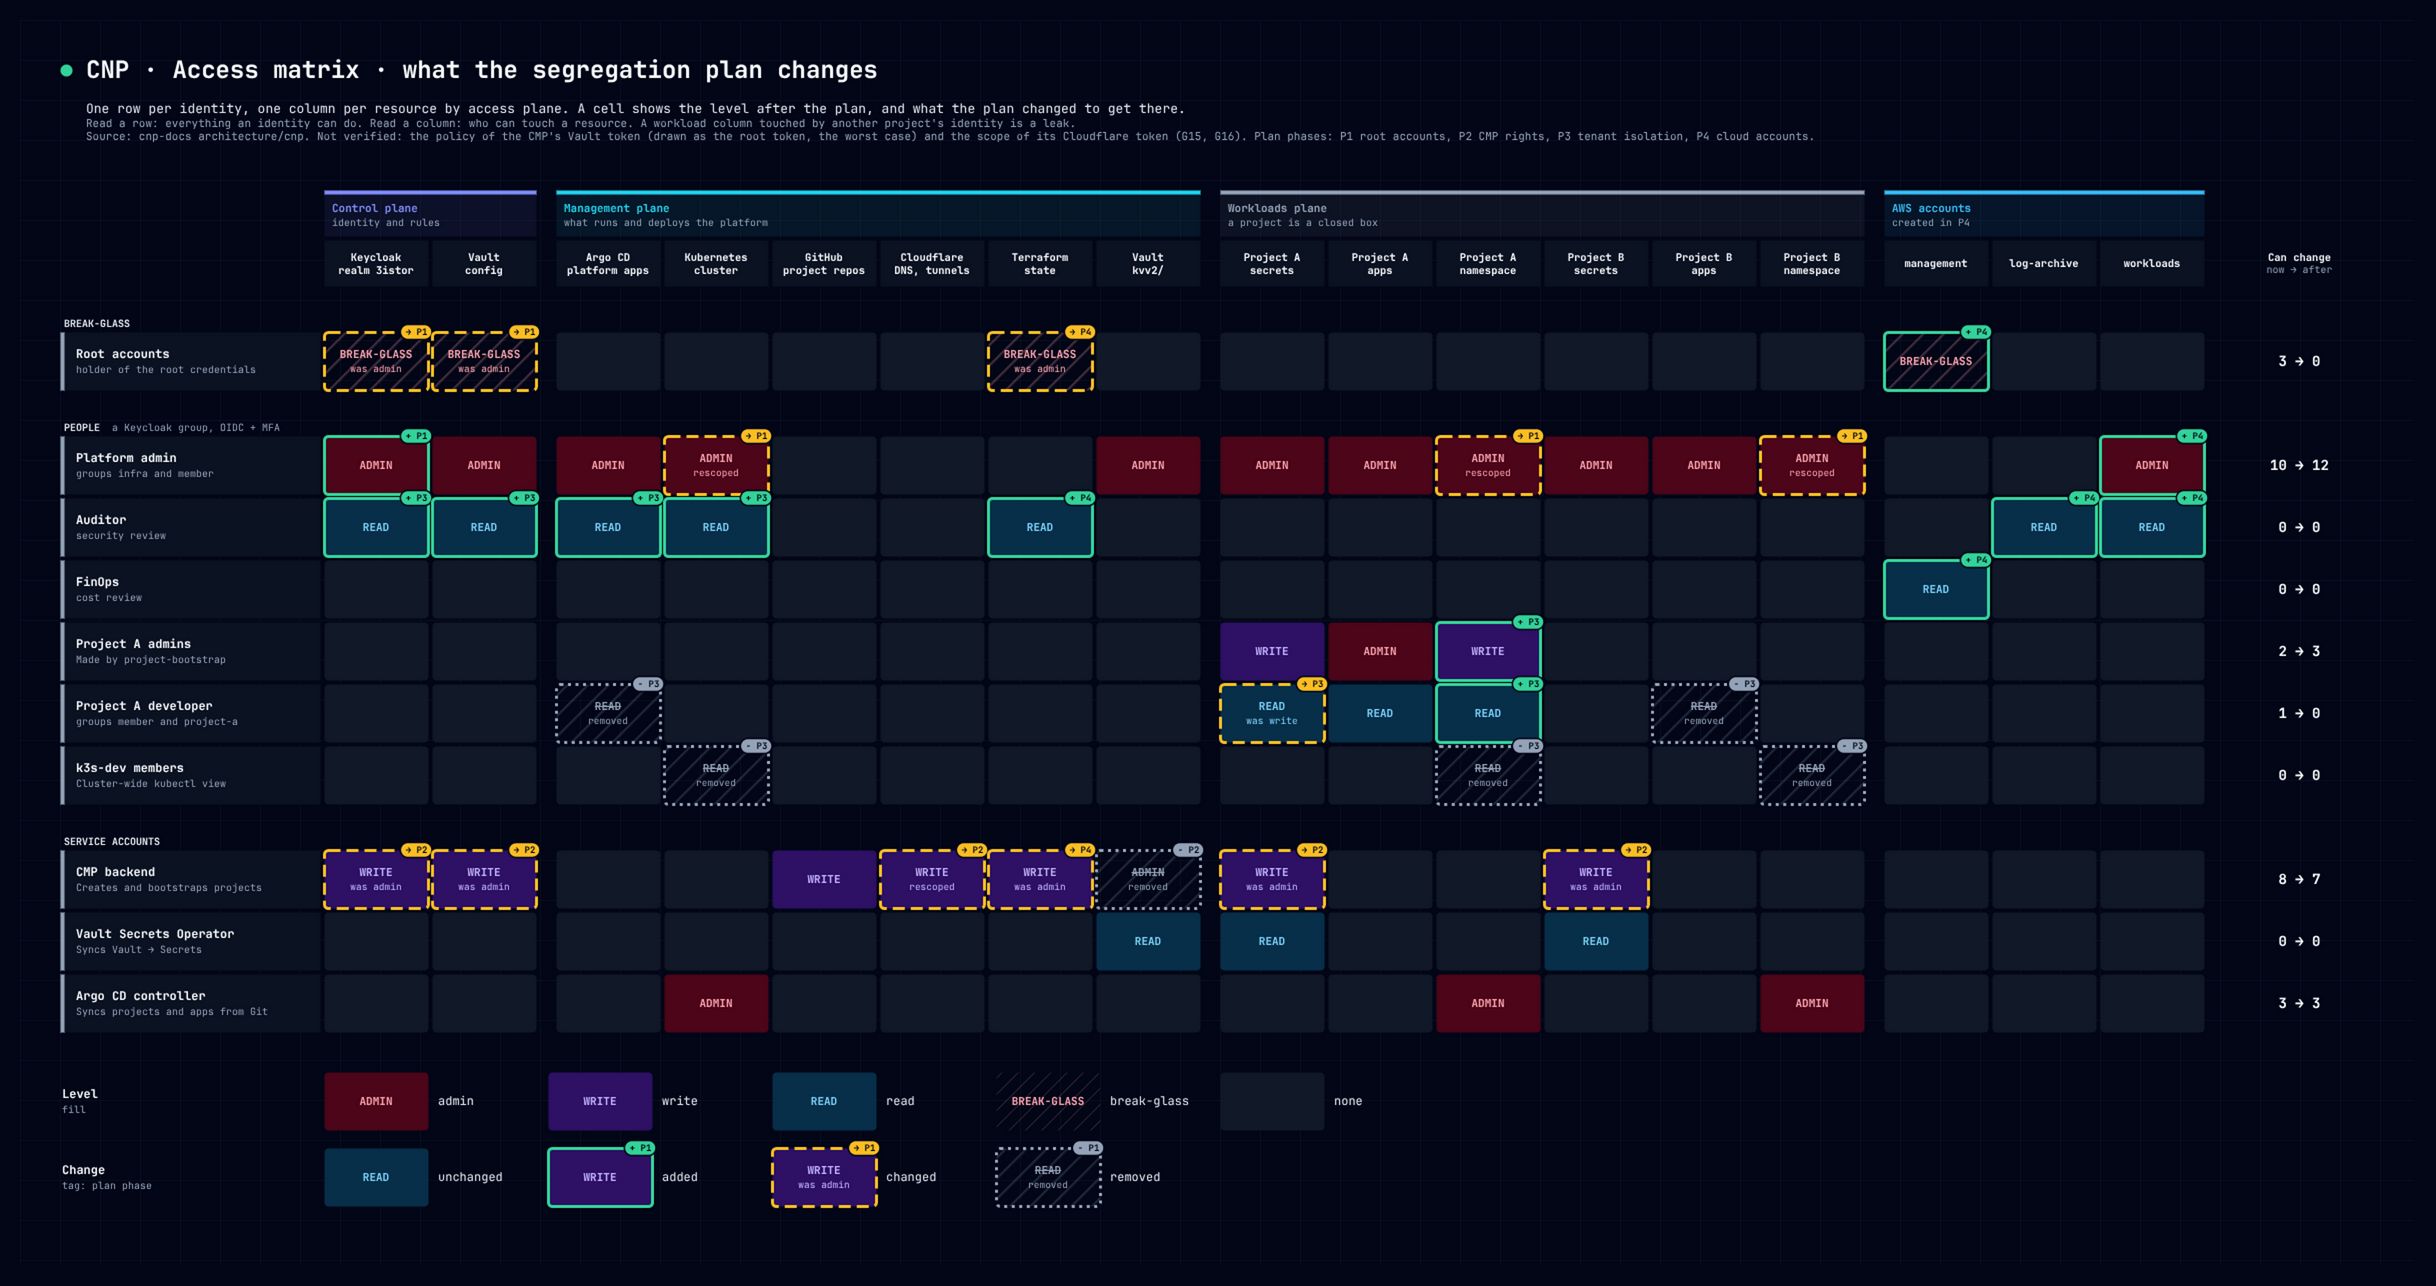
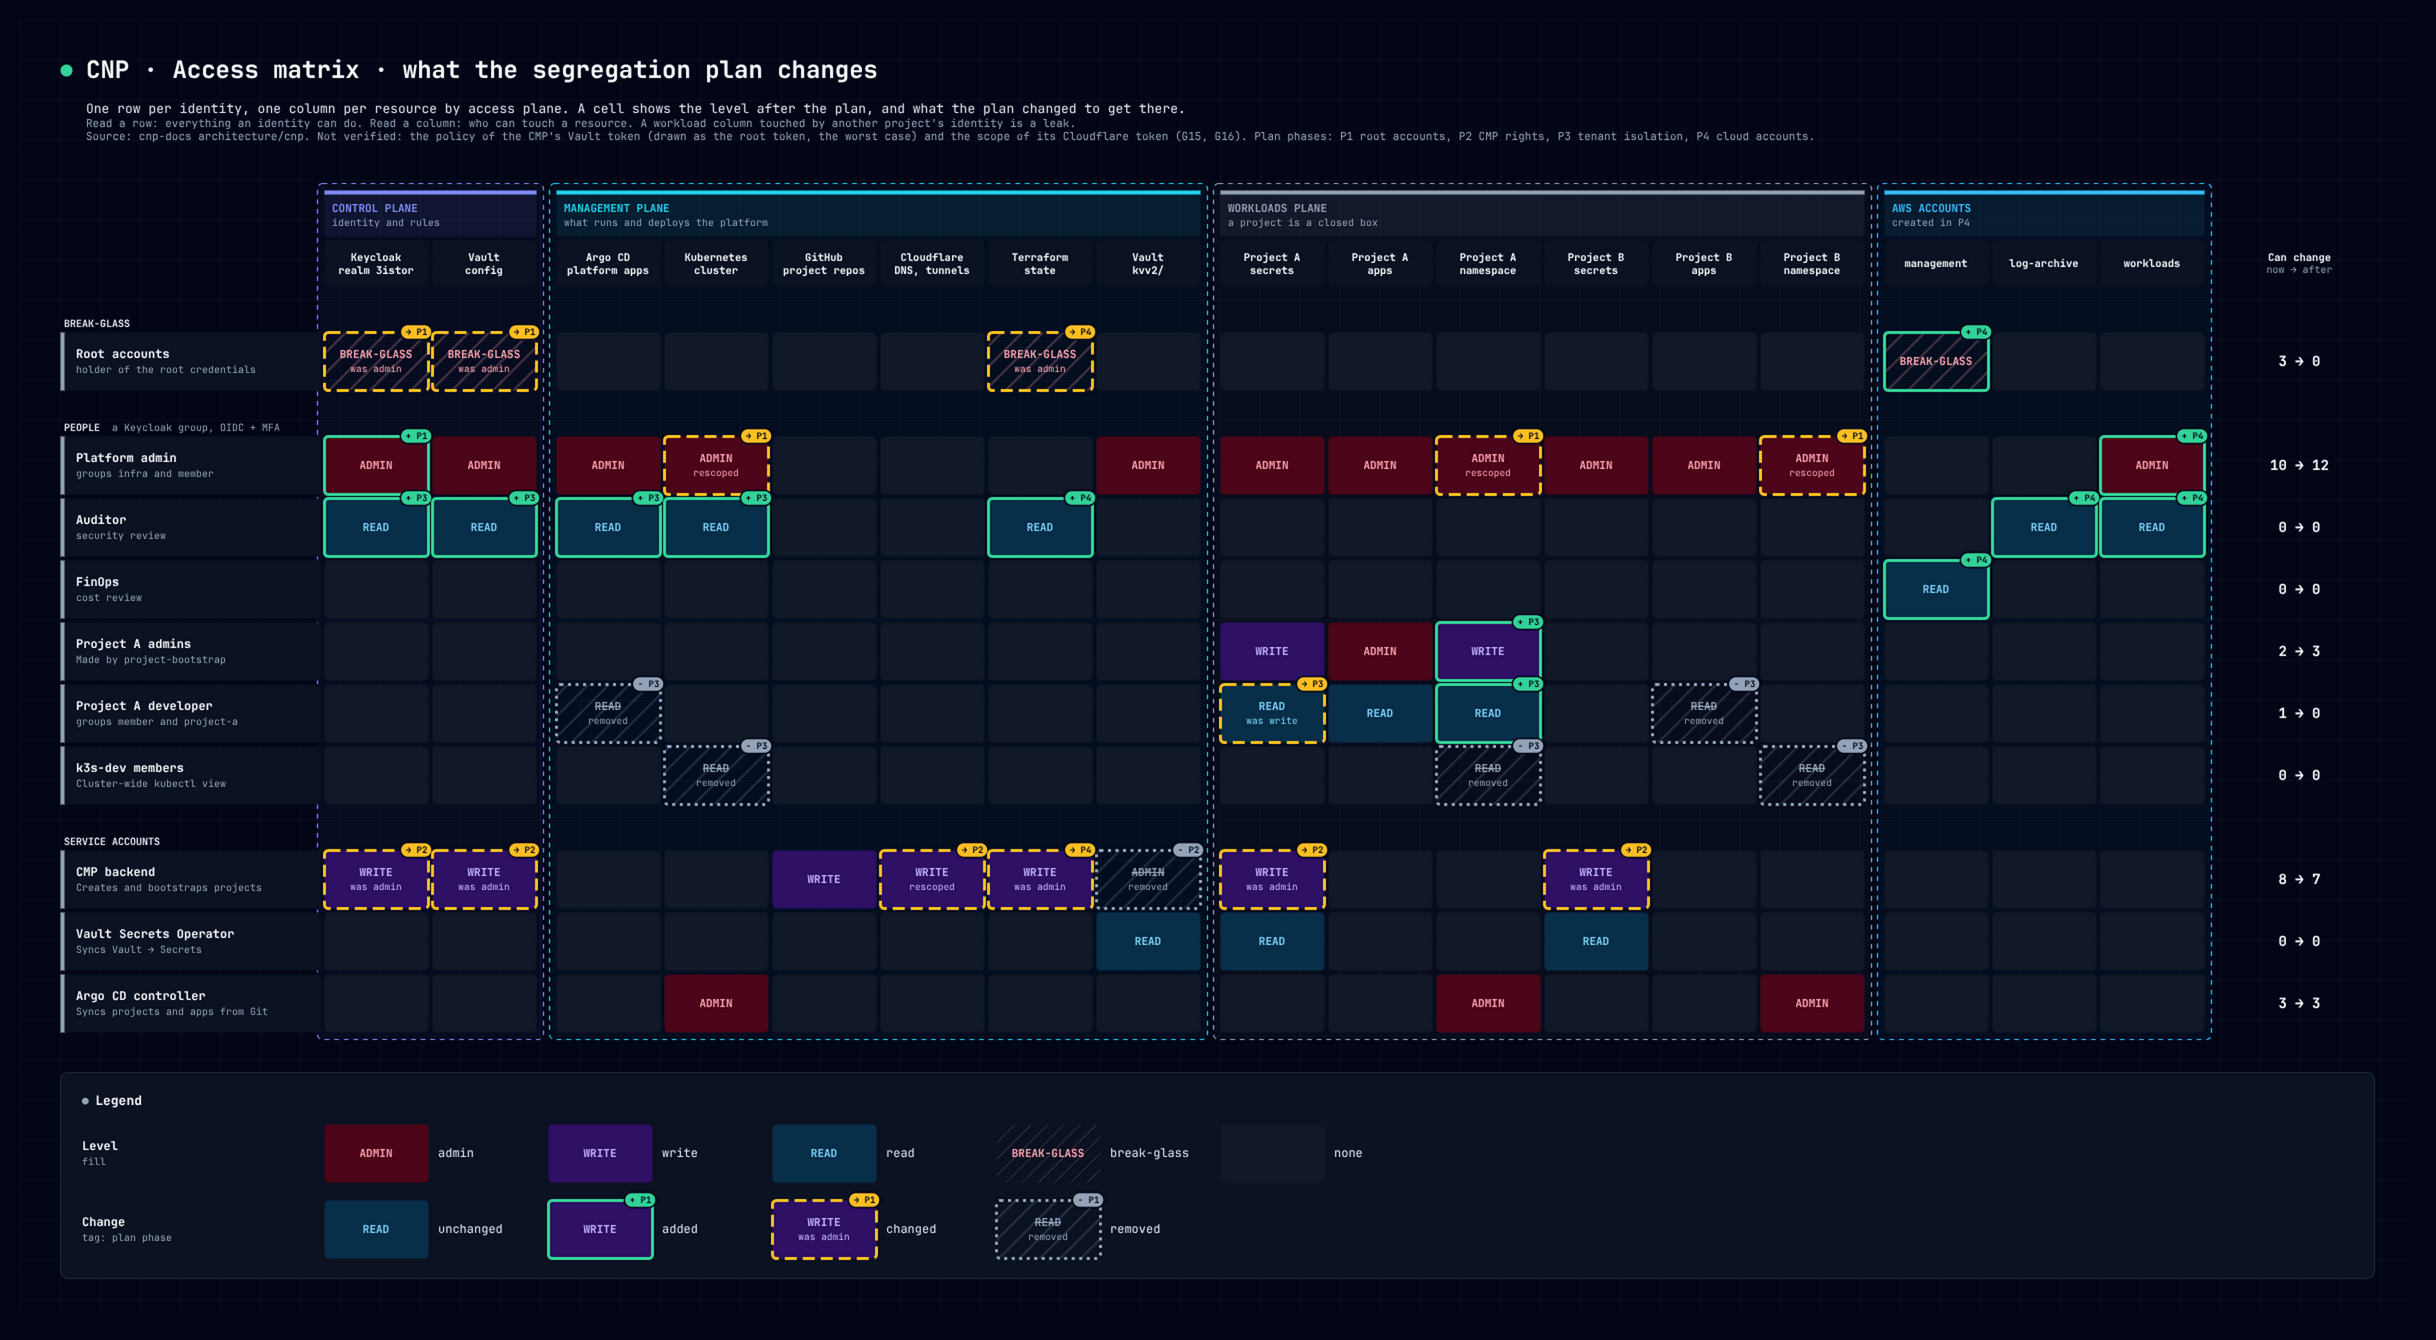
feat(render): frame matrix column groups and put the legend in a card
Claude-Session: https://claude.ai/code/session_01ER3EapmUNjupQxLPbgCuWv

diff --git a/internal/resolve/matrix.go b/internal/resolve/matrix.go
@@ -116,10 +116,12 @@ func Matrix(s *model.System, viewID string) (*diagram.Spec, error) {
 			y += house.MatrixCellH + house.MatrixGap
 		}
 	}
+	m.GridBottom = y - house.MatrixGap
 	y = matrixLegend(m, state, y+house.MatrixLegendGap)
 	for _, c := range m.Legend {
-		width = max(width, c.X+c.W+house.MatrixLegendCaptionW+landscapeMargin)
+		width = max(width, c.X+c.W+house.MatrixLegendCaptionW+house.MatrixCardPad+landscapeMargin)
 	}
+	m.LegendCard.W = width - 2*landscapeMargin
 	return &diagram.Spec{
 		ID: v.ID, Type: "matrix", Title: v.Title, Subtitle: v.Subtitle, Meta: v.Meta,
 		Width: width, Height: y + landscapeMargin, Matrix: m,
@@ -165,10 +167,13 @@ func headerLines(v *model.View, e model.Element) []string {
 	return house.Wrap(e.Title, house.MatrixHeaderFontSize, house.MatrixCellW-2*house.MatrixPad)
 }
 
-// matrixLegend lays out the two legend rows under the grid and returns the y below them.
-func matrixLegend(m *diagram.Matrix, state string, y float64) float64 {
+// matrixLegend lays out the legend card under the grid, its title row then one row of
+// sample cells per code, and returns the y below the card.
+func matrixLegend(m *diagram.Matrix, state string, top float64) float64 {
+	y := top + house.MatrixCardHeadH
+	left := landscapeMargin + house.MatrixCardPad
 	row := func(title, sub string, items []diagram.MatrixCell) {
-		m.LegendTitles = append(m.LegendTitles, diagram.MatrixHeader{Lines: []string{title}, Sub: []string{sub}, X: landscapeMargin, Y: y, W: house.MatrixRowHeaderW, H: house.MatrixCellH})
+		m.LegendTitles = append(m.LegendTitles, diagram.MatrixHeader{Lines: []string{title}, Sub: []string{sub}, X: left, Y: y, W: house.MatrixRowHeaderW - house.MatrixCardPad, H: house.MatrixCellH})
 		x := landscapeMargin + house.MatrixRowHeaderW + house.MatrixGap
 		for _, it := range items {
 			it.X, it.Y, it.W, it.H = x, y, house.MatrixCellW, house.MatrixCellH
@@ -189,7 +194,9 @@ func matrixLegend(m *diagram.Matrix, state string, y float64) float64 {
 			{Before: "read", Change: "removed", Phase: "P1", Note: "removed", Caption: "removed"},
 		})
 	}
-	return y
+	bottom := y - house.MatrixLegendGap/2 + house.MatrixCardPad
+	m.LegendCard = diagram.Rect{X: landscapeMargin, Y: top, H: bottom - top}
+	return bottom
 }
 
 func shareAny(a, b map[string]bool) bool {

diff --git a/cmd/noodle/matrix.go b/cmd/noodle/matrix.go
@@ -12,12 +12,23 @@ import (
 // matrix draws an access matrix (ADR-0019): the fill of a cell is the level, its frame
 // and tag are the change, so the two codes never share a colour.
 func (r *renderer) matrix(m *diagram.Matrix) {
+	// Frames first, behind everything: a column group reads as one block down to the
+	// last row, like a zone on a topology.
+	for i, g := range m.ColumnGroups {
+		f := house.MatrixFrameOut
+		r.vertex(fmt.Sprintf("mx-frame%d", i), "1", "", style("rounded=1", "absoluteArcSize=1", "arcSize=10", "fillColor="+r.zoneColor(g.Color),
+			"fillOpacity=4", "strokeColor="+r.zoneColor(g.Color), "strokeWidth=1.2", "dashed=1", "dashPattern=4 4", "movable=0"),
+			g.X-f, g.Y-f, g.W+2*f, m.GridBottom-g.Y+2*f)
+	}
+	r.card(diagram.Card{ID: "mx-legend-card", Title: "Legend", Color: "slate",
+		X: m.LegendCard.X, Y: m.LegendCard.Y, W: m.LegendCard.W, H: m.LegendCard.H})
 	for i, g := range m.ColumnGroups {
 		color := r.zoneColor(g.Color)
 		id := fmt.Sprintf("mx-group%d", i)
 		r.vertex(id, "1", "", style("rounded=0", "fillColor="+color, "fillOpacity=8", "strokeColor=none", "movable=0"), g.X, g.Y, g.W, g.H)
 		r.vertex(id+"-bar", "1", "", style("rounded=0", "fillColor="+color, "strokeColor=none", "movable=0"), g.X, g.Y, g.W, 4)
-		v := fmt.Sprintf(`<b>%s</b>`, html.EscapeString(g.Title))
+		// Uppercase and bold, as a zone title on a topology (ADR-0006).
+		v := fmt.Sprintf(`<b>%s</b>`, html.EscapeString(strings.ToUpper(g.Title)))
 		if g.Sub != "" {
 			v += fmt.Sprintf(`<br><font color="%s" style="font-size:%gpx">%s</font>`, r.th.Muted, house.SubFontSize, html.EscapeString(g.Sub))
 		}

diff --git a/internal/lint/matrix_text.go b/internal/lint/matrix_text.go
@@ -1,6 +1,8 @@
 package lint
 
 import (
+	"strings"
+
 	"github.com/TheGostsniperfr/Noodle/internal/diagram"
 	"github.com/TheGostsniperfr/Noodle/internal/house"
 )
@@ -30,7 +32,7 @@ func checkMatrixText(l *linter) {
 		}
 	}
 	for _, g := range m.ColumnGroups {
-		fits("matrix group "+g.Title, g.Title, house.ZoneFontSize, g.W-2*house.MatrixPad)
+		fits("matrix group "+g.Title, strings.ToUpper(g.Title), house.ZoneFontSize, g.W-2*house.MatrixPad)
 		fits("matrix group "+g.Title, g.Sub, house.SubFontSize, g.W-2*house.MatrixPad)
 	}
 	for _, h := range m.Columns {

diff --git a/internal/resolve/matrix_test.go b/internal/resolve/matrix_test.go
@@ -80,3 +80,16 @@ func TestMatrix_CanvasHoldsTheLegend(t *testing.T) {
 		assert.LessOrEqual(t, c.X+c.W, spec.Width)
 	}
 }
+
+func TestMatrix_FramesReachTheLastRowAndTheCardHoldsTheLegend(t *testing.T) {
+	t.Parallel()
+	spec := smallMatrix(t)
+	m := spec.Matrix
+
+	last := m.Cells[len(m.Cells)-1]
+	assert.Equal(t, last.Y+last.H, m.GridBottom)
+	for _, c := range m.Legend {
+		assert.True(t, m.LegendCard.Contains(c.Rect()), "legend cell %v outside the card %v", c.Rect(), m.LegendCard)
+	}
+	assert.Greater(t, m.LegendCard.Y, m.GridBottom)
+}

diff --git a/internal/house/matrix.go b/internal/house/matrix.go
@@ -23,6 +23,11 @@ const (
 	MatrixRowFontSize    = 12.0
 	MatrixTagFontSize    = 9.0
 	MatrixTagH           = 15.0
+	// A column group's frame sits this far outside its cells; under half the group gap,
+	// so two frames never touch.
+	MatrixFrameOut  = 7.0
+	MatrixCardHeadH = 52.0
+	MatrixCardPad   = 20.0
 )
 
 // LevelWord is what a cell says for a level.

diff --git a/internal/diagram/diagram.go b/internal/diagram/diagram.go
@@ -55,6 +55,10 @@ type Matrix struct {
 	Counts       []MatrixHeader
 	LegendTitles []MatrixHeader
 	Legend       []MatrixCell
+	// GridBottom is where the last row ends: a column group's frame runs down to it.
+	GridBottom float64
+	// LegendCard holds the legend, drawn as a card like a topology's.
+	LegendCard Rect
 }
 
 type MatrixGroup struct {

diff --git a/specs/004-access-matrix/spec.md b/specs/004-access-matrix/spec.md
@@ -42,8 +42,9 @@ ISO 27001 review asks for (A.5.15, A.5.18), today, after a plan, or both in one 
   level is unchanged but whose grants changed is marked changed, `rescoped`.
 - **FR-005** A last column counts, per row, the resources it can change (write or admin),
   before and after in `diff`.
-- **FR-006** The legend sits under the matrix: one line for levels, one for changes,
-  with sample cells and one word each.
+- **FR-006** The legend sits under the matrix in a card titled Legend: one line for
+  levels, one for changes, with sample cells and one word each. Each column group is
+  framed like a zone, from its header down to the last row.
 - **FR-007** Colours come from the theme in both themes; level and change never share
   a colour; the lint checks that every header and cell text fits.
 - **FR-008** JSON Schemas cover every new field; every example validates in `go test`.

diff --git a/docs/PROGRESS.md b/docs/PROGRESS.md
@@ -42,6 +42,8 @@ decisions go in ADRs, acceptance in `features.json`.
 - T05: `examples/cnp-access` (the CNP model) in init.sh and CI; skill reference, SKILL
   recipe and README (P6b-05). Phase 6b features pass; it closes when cnp-docs publishes
   the matrix.
+- Review: column groups framed down to the last row like zones, uppercase group titles,
+  legend in a card like a topology's.
 
 ### 2026-10-01 · Spec 003 blind spots and checkpoint
 
